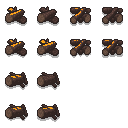
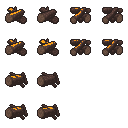
fire 오브젝트 구현

diff --git a/WinAPI/ContentsProject/ContentsCore.cpp b/WinAPI/ContentsProject/ContentsCore.cpp
@@ -81,8 +81,9 @@ void ContentsCore::SpriteSetting()
 	// MapObject
 	UImageManager::GetInst().CuttingSprite("rocks.png", 4, 8);
 	UImageManager::GetInst().CuttingSprite("poops.png", 5, 5);
-	UImageManager::GetInst().CuttingSprite("fire_top.png", 7, 2);
+	UImageManager::GetInst().CuttingSprite("fire_top.png", 3, 2);
 	UImageManager::GetInst().CuttingSprite("fire_bottom.png", 4, 4);
+
 
 	// Player
 	UImageManager::GetInst().CuttingSprite("Body.png", 5, 6);

diff --git a/WinAPI/ContentsProject/Fire.h b/WinAPI/ContentsProject/Fire.h
@@ -18,10 +18,13 @@ public:
 	void BeginPlay();
 	void Tick(float _DeltaTime);
 
+	void SwitchAnimation();
+
 protected:
 
 private:
-	USpriteRenderer* FlameHeaderRenderer = nullptr;
 	USpriteRenderer* FlameBaseRenderer = nullptr;
+	FVector2D BodyCollisionScale = FVector2D::ZERO;
+	FVector2D BodyCollisionLocation = FVector2D::ZERO;
 };
 

diff --git a/WinAPI/EngineCore/SpriteRenderer.h b/WinAPI/EngineCore/SpriteRenderer.h
@@ -36,6 +36,7 @@ public:
 			CurIndex = 0;
 			CurTime = 0;
 			ResultIndex = 0;
+			IsEnd = false;
 		}
 	};
 
